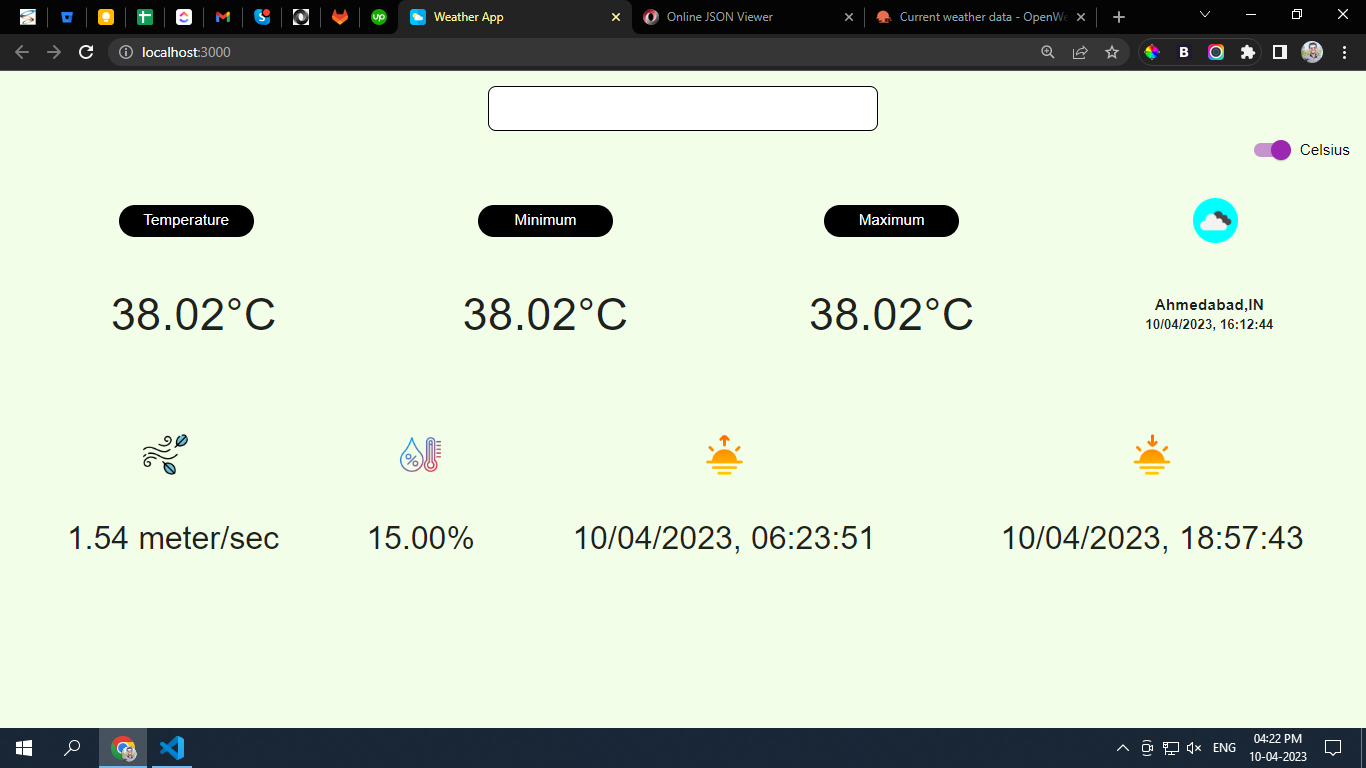
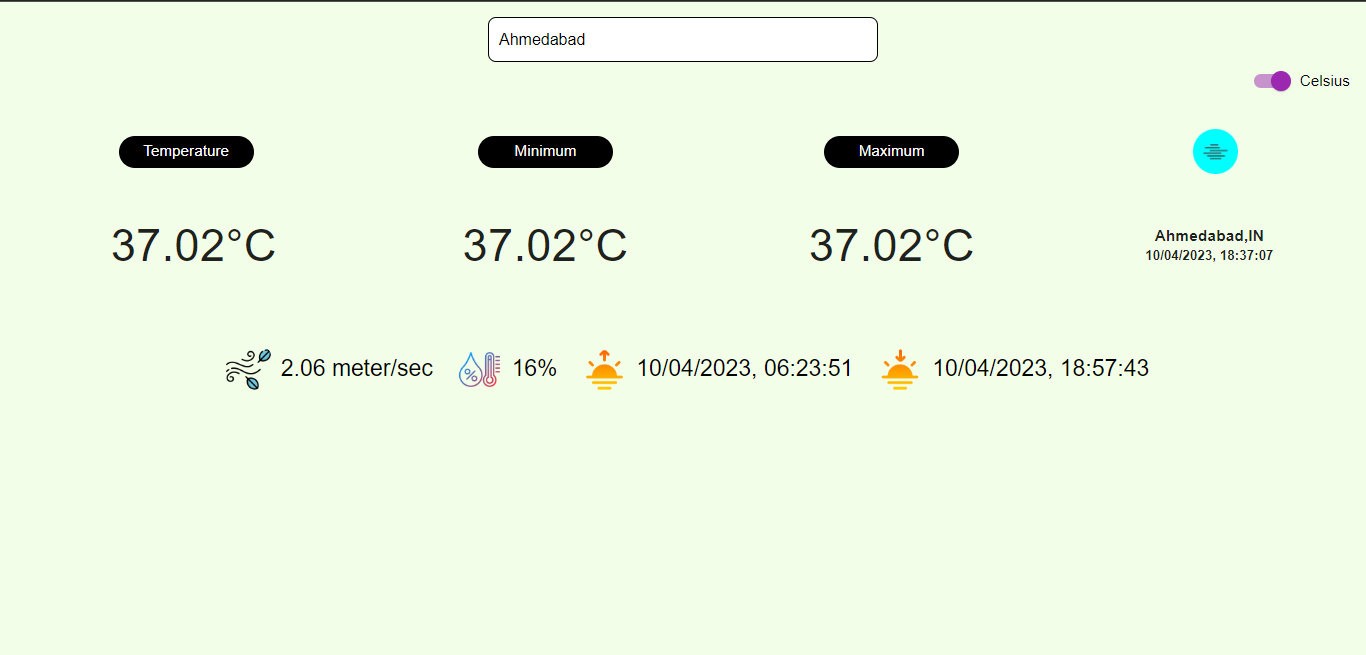
Change screenshote in readme file, Change data formating.

diff --git a/src/App.js b/src/App.js
@@ -23,7 +23,7 @@ function App() {
   //method for call API for weather
   useEffect(() => {
     const fatchAPI = async () => {
-      const response = await fetch(url+searchText+"&appid="+API_KEY+"&units=metric")
+      const response = await fetch(url + searchText + "&appid=" + API_KEY + "&units=metric")
       const json = await response.json()
       setCityData(json)
       console.log('response', json);
@@ -48,6 +48,7 @@ function App() {
     }
   }
 
+  //method for get Time from milliseconds
   const getTime = (milliseconds) => {
     const dateFromString = milliseconds.toString() + "000"
     const dateObj = new Date(parseFloat(dateFromString));
@@ -135,64 +136,54 @@ function App() {
                 </TableRow>
               </TableBody>
             </Table>
-            <Table style={{ marginTop: '3rem', textAlign: 'center' }}>
-              <TableHead>
-                <TableRow>
-                  <TableCell style={{ border: 'none', textAlign: 'center' }}>
+            <div style={{ marginTop: '3rem', textAlign: 'center' }}>
+              <div>
+                <div style={{ border: 'none', textAlign: 'center', display: 'flex', justifyContent: 'center', alignItems: 'center' }}>
+                  <div style={{ border: 'none', textAlign: 'center', display: 'flex', justifyContent: 'center', alignItems: 'center', marginRight: '1rem' }}>
                     <CustomWidthTooltip title={"Wind"} placement="top" arrow>
                       <Button>
                         <img src="https://cdn-icons-png.flaticon.com/512/4005/4005837.png" alt="" style={{ borderRadius: '20%', height: '3rem' }} />
                       </Button>
                     </CustomWidthTooltip>
-                  </TableCell>
-                  <TableCell style={{ border: 'none', textAlign: 'center' }}>
+                    <Typography style={{ fontSize: '1.5rem' }}>
+                      {cityData.wind.speed} meter/sec
+                    </Typography>
+                  </div>
+
+                  <div style={{ border: 'none', textAlign: 'center', display: 'flex', justifyContent: 'center', alignItems: 'center', marginRight: '1rem' }}>
                     <CustomWidthTooltip title={"Humidity"} placement="top" arrow>
                       <Button>
                         <img src="https://cdn-icons-png.flaticon.com/512/9290/9290540.png" alt="" style={{ borderRadius: '20%', height: '3rem' }} />
                       </Button>
                     </CustomWidthTooltip>
-                  </TableCell>
-                  <TableCell style={{ border: 'none', textAlign: 'center' }}>
+                    <Typography style={{ fontSize: '1.5rem' }}>
+                      {humidity}%
+                    </Typography>
+                  </div>
+
+                  <div style={{ border: 'none', textAlign: 'center', display: 'flex', justifyContent: 'center', alignItems: 'center', marginRight: '1rem' }}>
                     <CustomWidthTooltip title={"Sunrise Time"} placement="top" arrow>
                       <Button>
                         <img src="https://cdn-icons-png.flaticon.com/512/8098/8098355.png" alt="" style={{ borderRadius: '20%', height: '3rem' }} />
                       </Button>
                     </CustomWidthTooltip>
-                  </TableCell>
-                  <TableCell style={{ border: 'none', textAlign: 'center' }}>
+                    <Typography style={{ fontSize: '1.5rem' }}>
+                      {getTime(cityData.sys.sunrise)}
+                    </Typography>
+                  </div>
+                  <div style={{ border: 'none', textAlign: 'center', display: 'flex', justifyContent: 'center', alignItems: 'center' }}>
                     <CustomWidthTooltip title={"Sunset Time"} placement="top" arrow>
                       <Button>
                         <img src="https://cdn-icons-png.flaticon.com/512/8098/8098358.png" alt="" style={{ borderRadius: '20%', height: '3rem' }} />
                       </Button>
                     </CustomWidthTooltip>
-                  </TableCell>
-                </TableRow>
-              </TableHead>
-              <TableBody>
-                <TableRow>
-                  <TableCell style={{ border: 'none', textAlign: 'center' }}>
-                    <Typography style={{ marginLeft: '1rem', fontSize: '2.1rem' }}>
-                      {cityData.wind.speed} meter/sec
-                    </Typography>
-                  </TableCell>
-                  <TableCell style={{ border: 'none', textAlign: 'center' }}>
-                    <Typography style={{ fontSize: '2.1rem' }}>
-                      {humidity}%
-                    </Typography>
-                  </TableCell>
-                  <TableCell style={{ border: 'none', textAlign: 'center' }}>
-                    <Typography style={{ fontSize: '2.1rem' }}>
-                      {getTime(cityData.sys.sunrise)}
-                    </Typography>
-                  </TableCell>
-                  <TableCell style={{ border: 'none', textAlign: 'center' }}>
-                    <Typography style={{ fontSize: '2.1rem' }}>
+                    <Typography style={{ fontSize: '1.5rem' }}>
                       {getTime(cityData.sys.sunset)}
                     </Typography>
-                  </TableCell>
-                </TableRow>
-              </TableBody>
-            </Table>
+                  </div>
+                </div>
+              </div>
+            </div>
           </>
           : <h2 style={{ textAlign: 'center' }}>There is No Data</h2>}
       </div>
